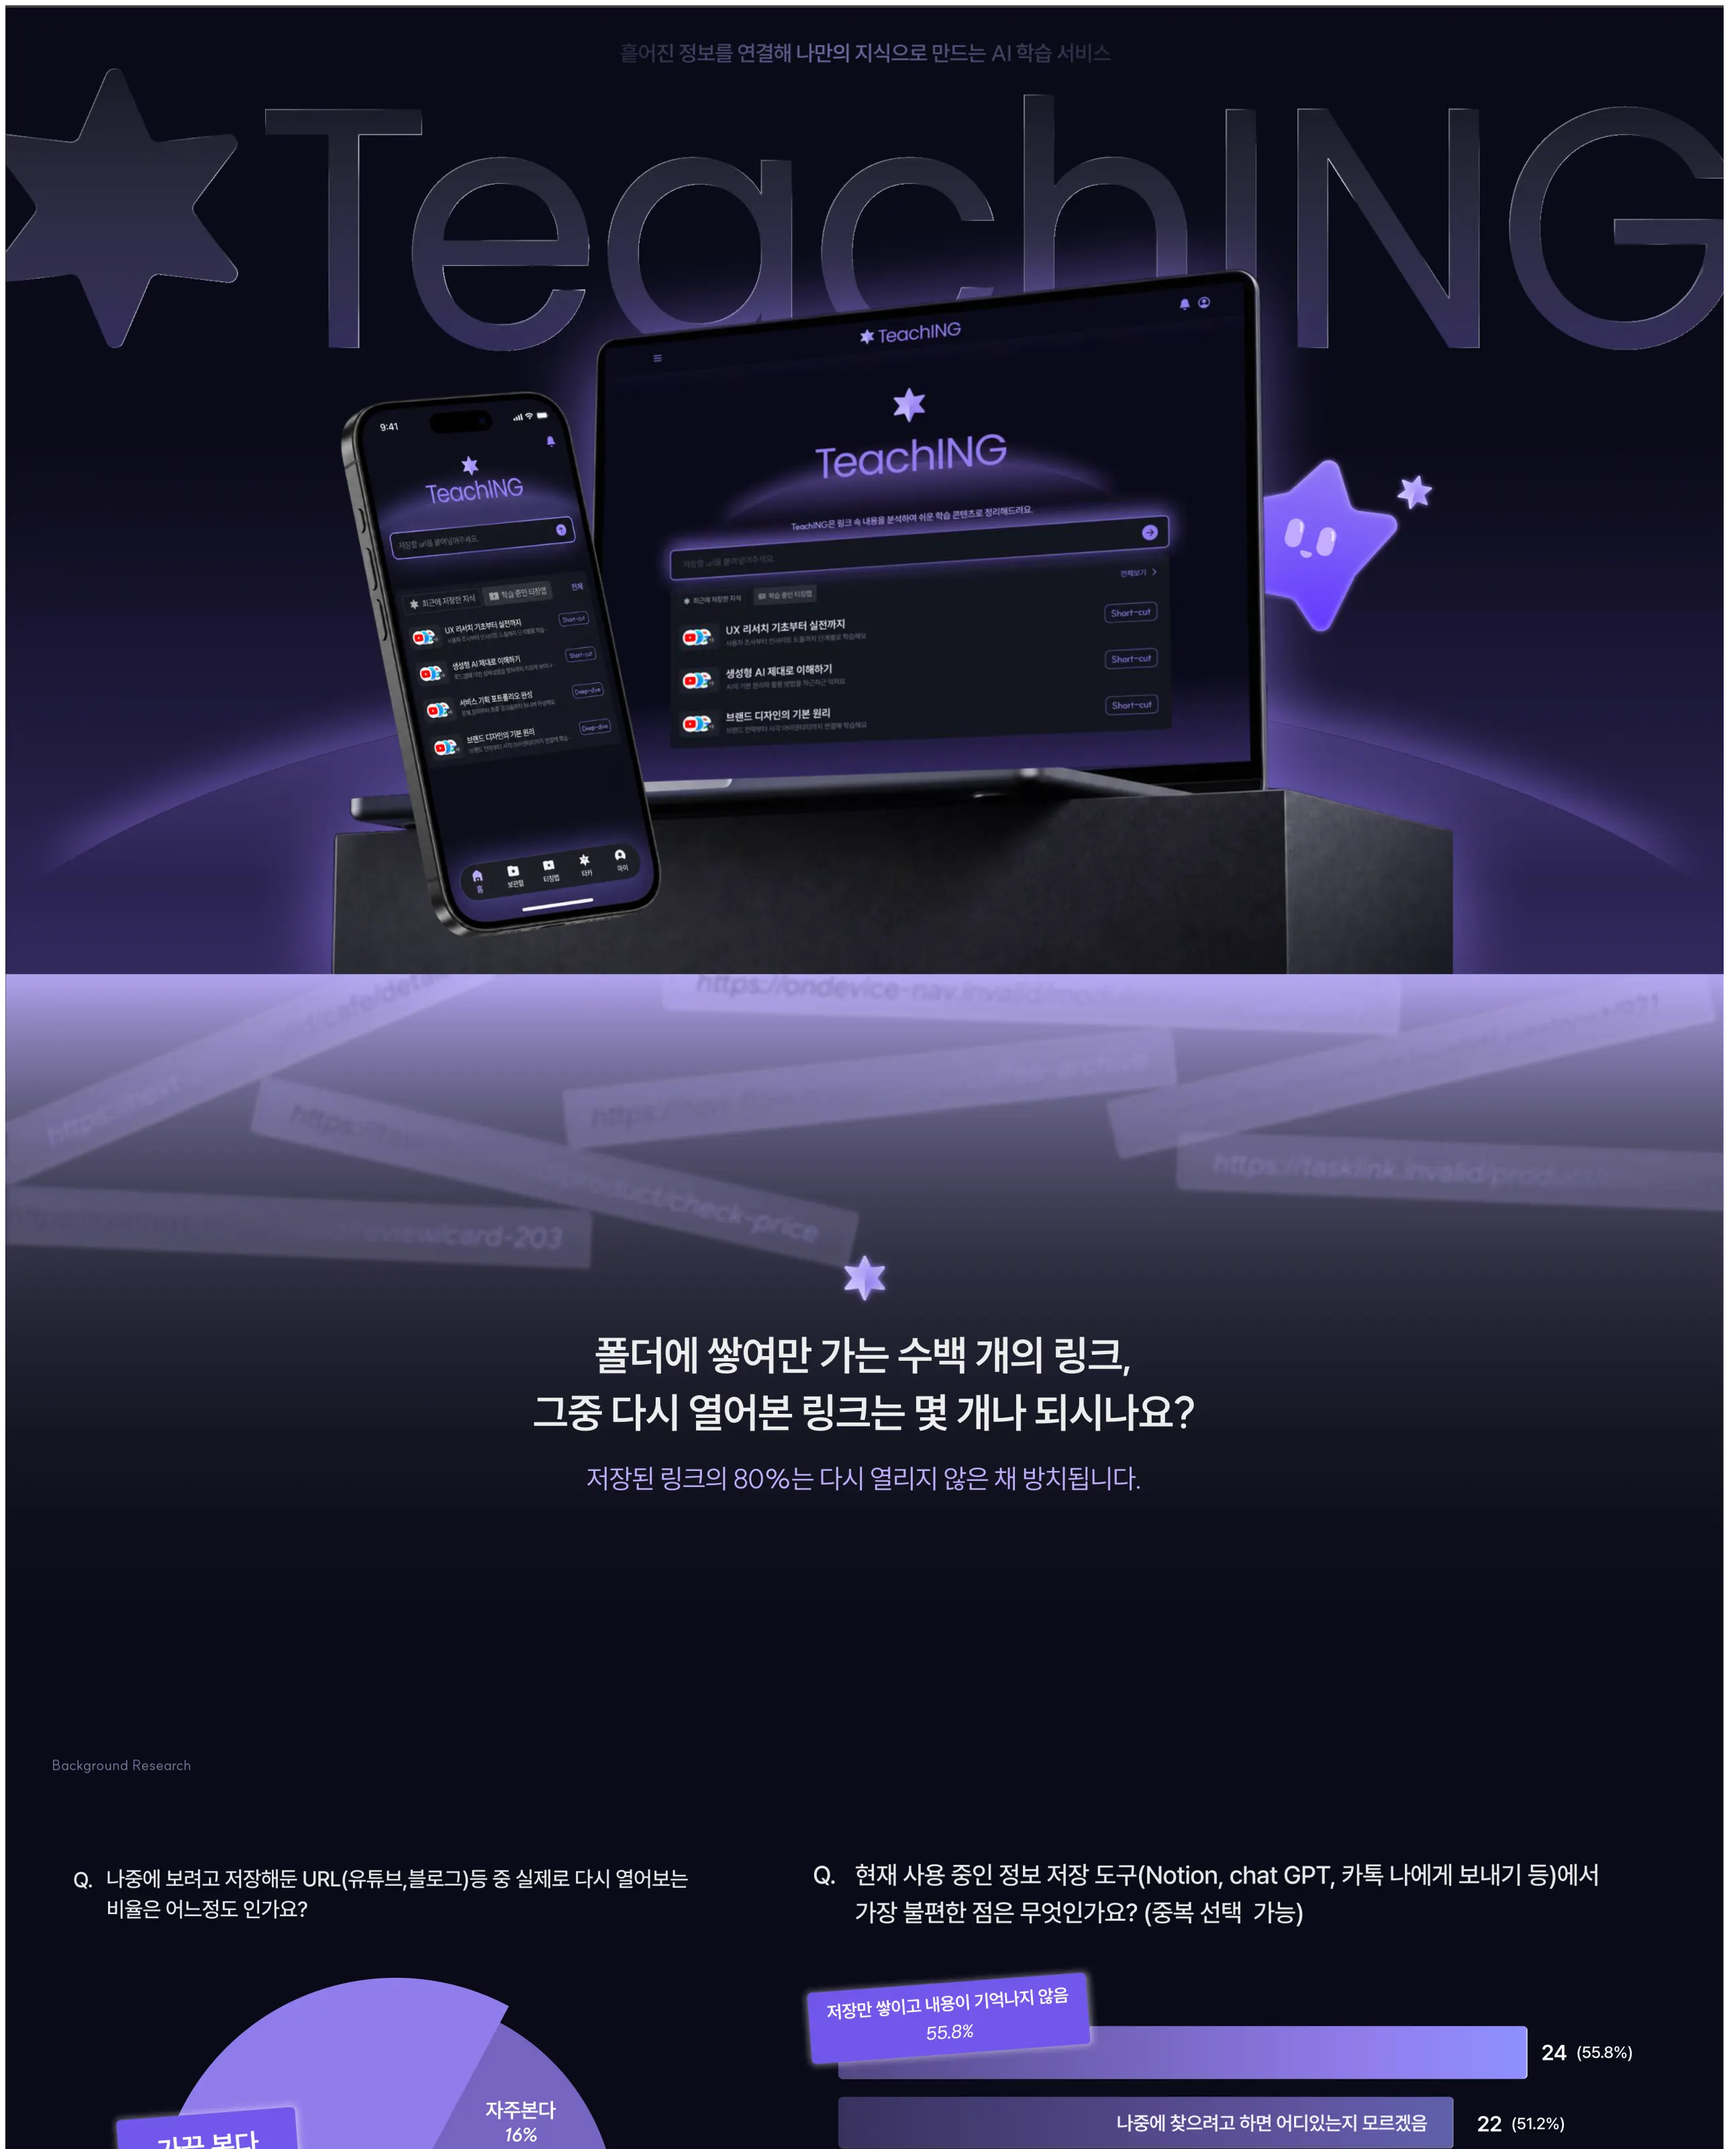
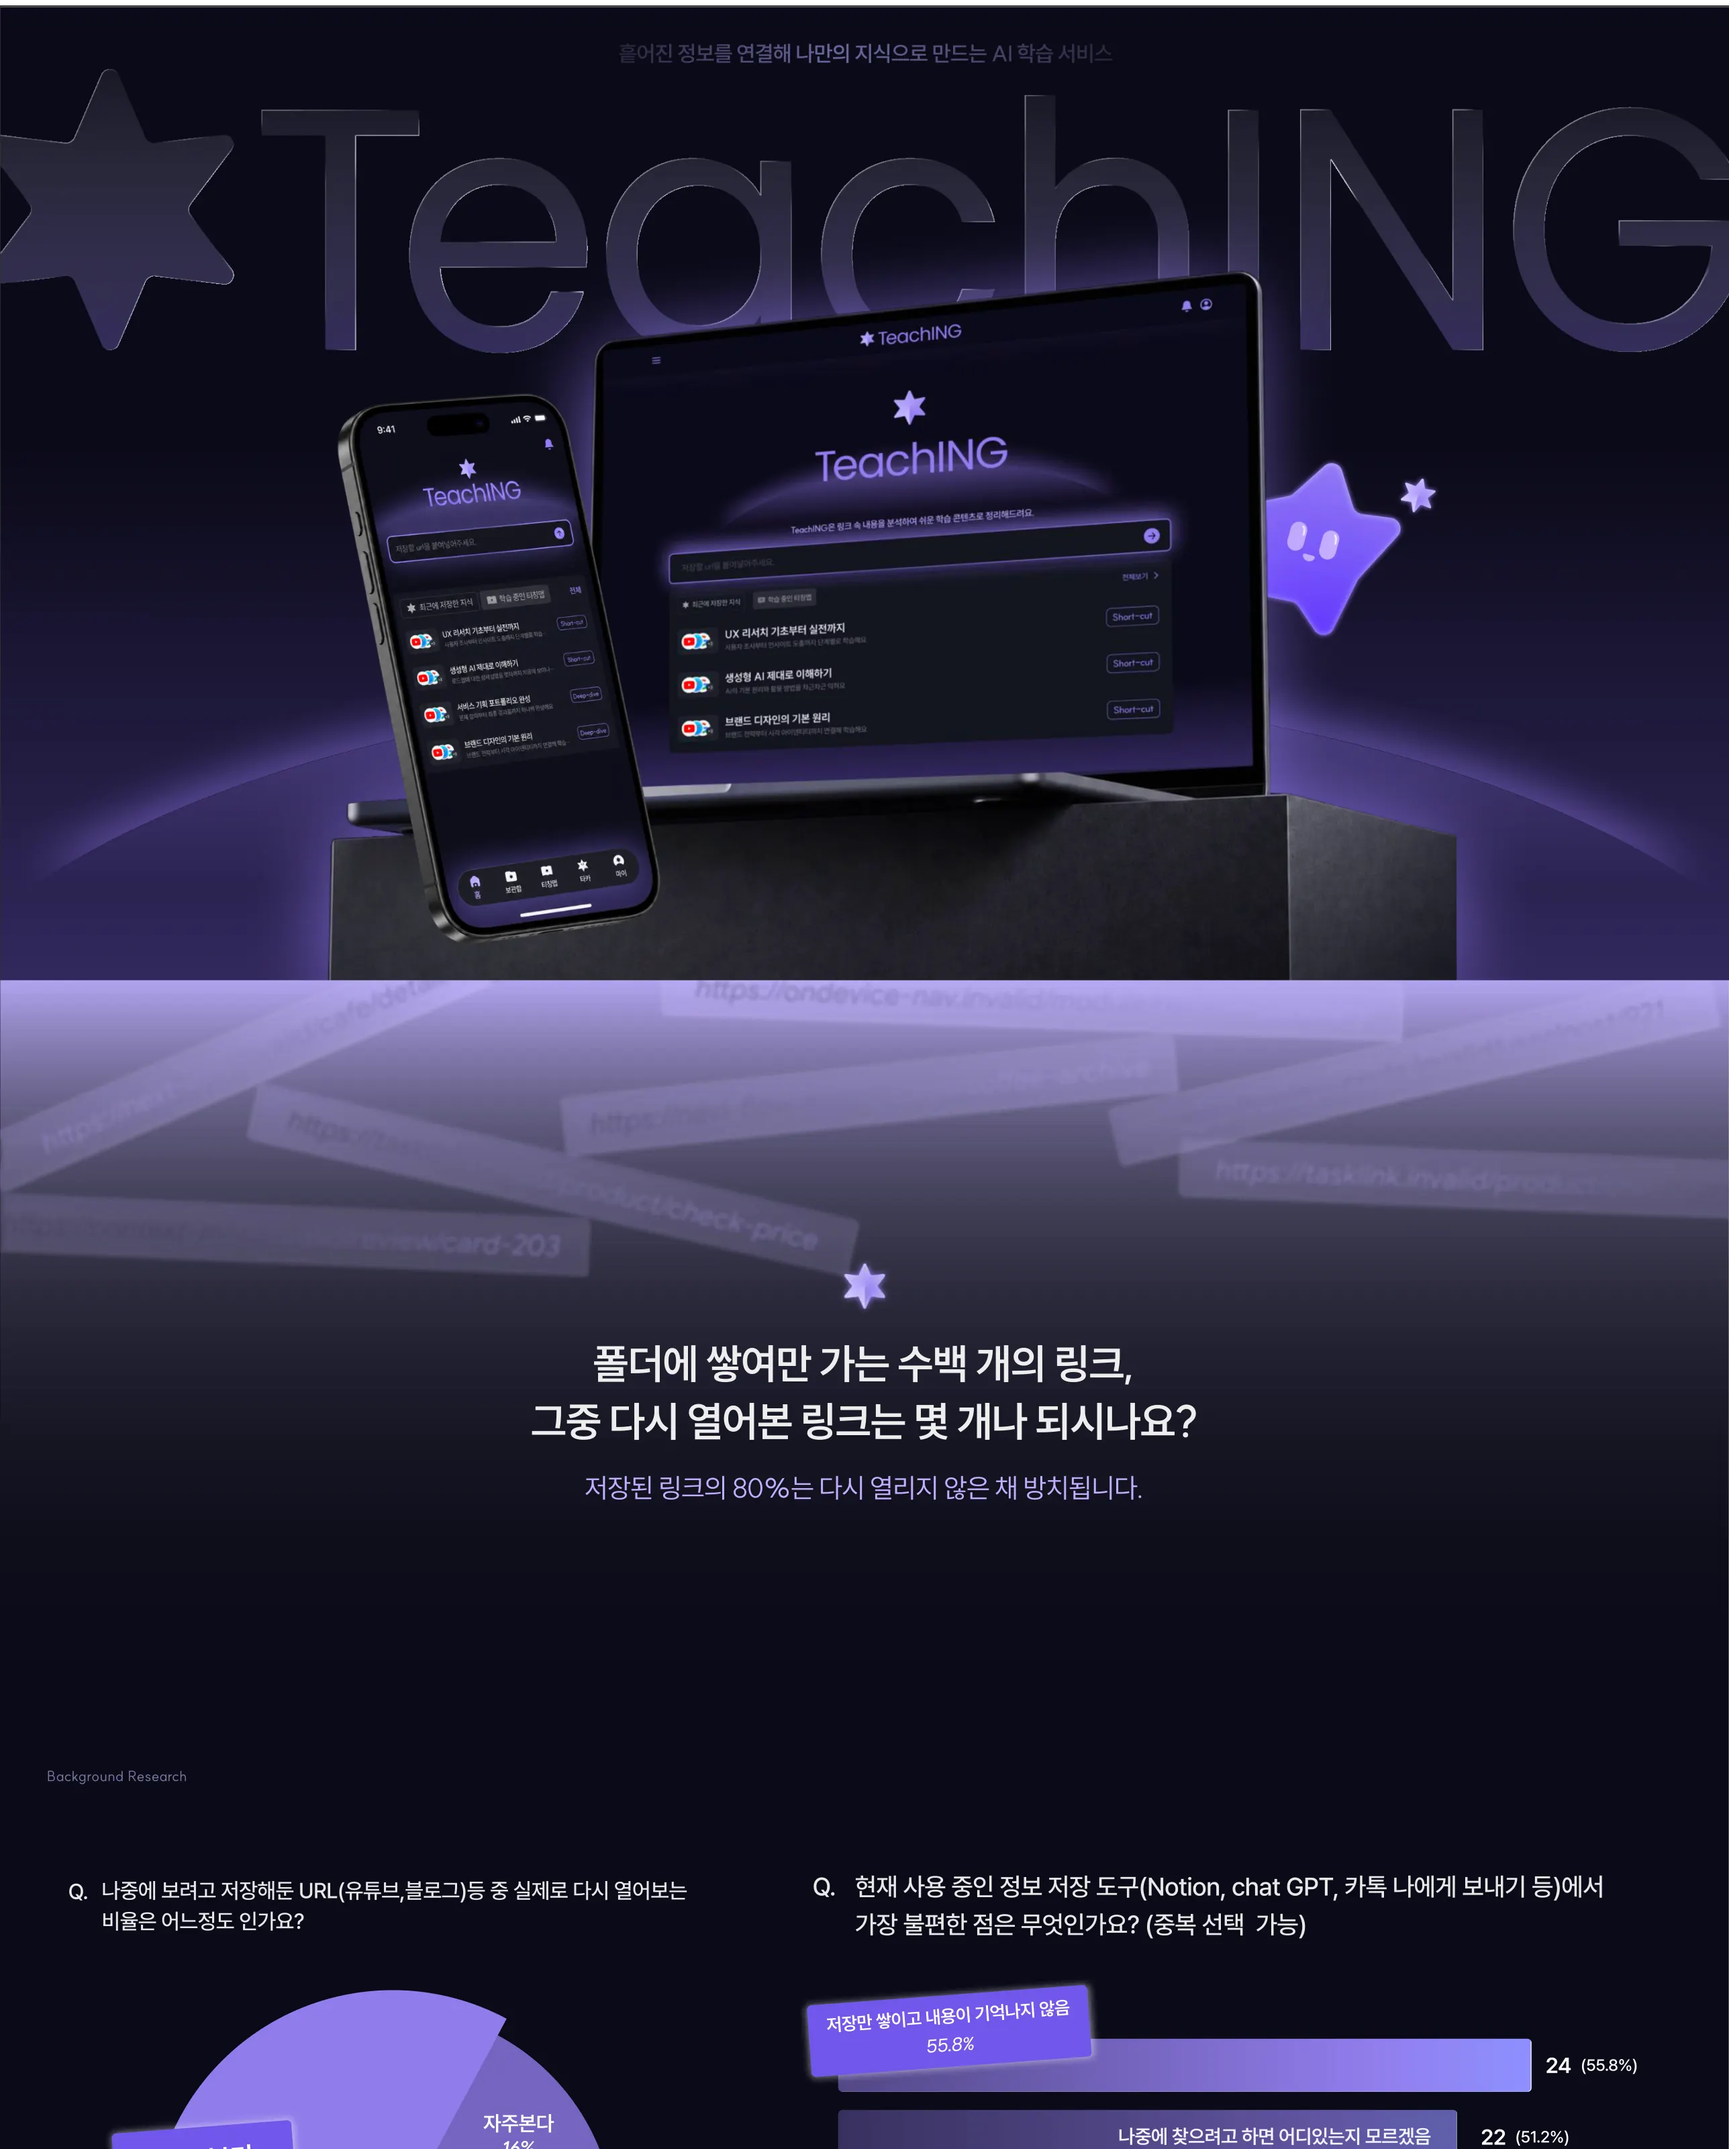
fix: 티칭 소개 이미지의 양옆 투명 여백을 잘라냄

diff --git a/src/pages/projects/-components/projectIntroImageData.ts b/src/pages/projects/-components/projectIntroImageData.ts
@@ -5,7 +5,7 @@ const PIECE_HEIGHT = 3200
 const LAST_PIECE_HEIGHTS: Readonly<Record<string, number>> = {
   "pop-it": 2952,
   muffin: 253,
-  teaching: 2883,
+  teaching: 2940,
   boogle: 1922,
   brifo: 1147,
   bookshelves: 1992,
